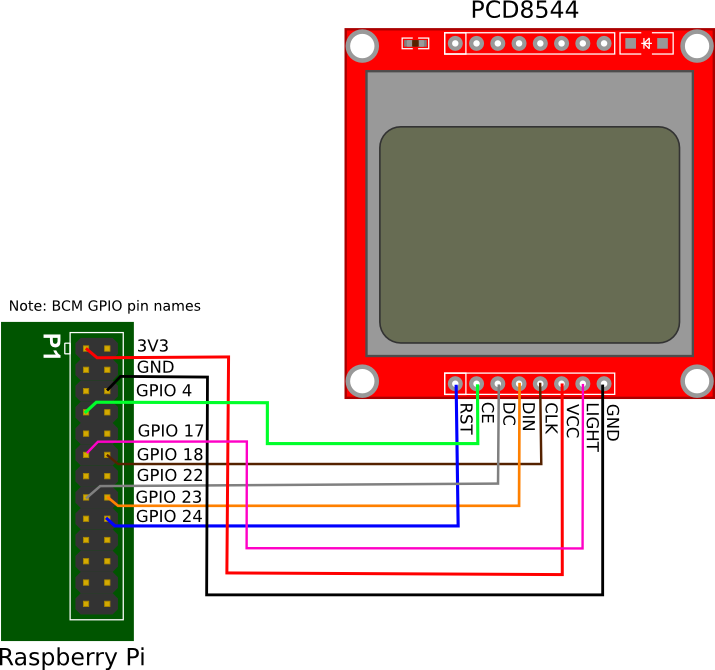
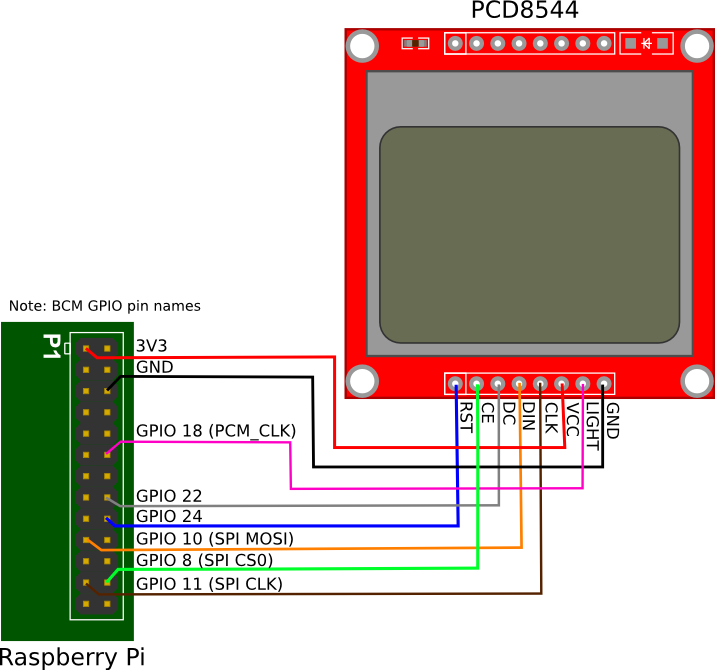
Update pin connections

Changed region(s): [[0.1231, 0.5075, 0.8923, 0.8955]]

diff --git a/pcd8544.py b/pcd8544.py
@@ -11,12 +11,12 @@ HEIGHT = WIDTH = 84
 fd = -1
 
 # default PINs, BCM GPIO
-pin_CLK   = 18
-pin_DIN   = 23
+pin_CLK   = 11
+pin_DIN   = 10
 pin_DC    = 22
 pin_RST   = 24
-pin_LIGHT = 17
-pin_CE    = 4
+pin_LIGHT = 18
+pin_CE    = 8
 
 # useful constants
 ON,   OFF = [1, 0]
@@ -124,7 +124,7 @@ default_FONT = {
     '~': [0x10, 0x08, 0x08, 0x10, 0x08],
 }
 
-def init(CLK = 18, DIN = 23, DC =22, RST = 24, LIGHT = 17, CE = 4, contrast = default_contrast):
+def init(CLK = 11, DIN = 10, DC = 22, RST = 24, LIGHT = 18, CE = 8, contrast = default_contrast):
     """ init screen, clearscreen """
     wiringPy.debug(0)
 
